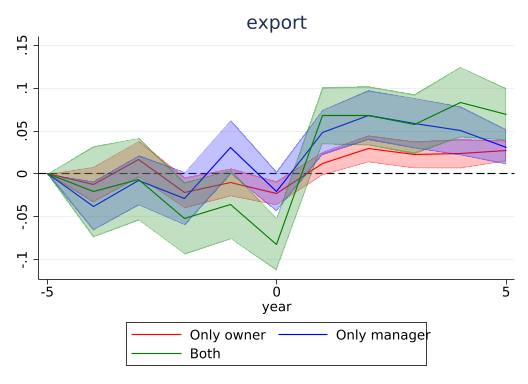
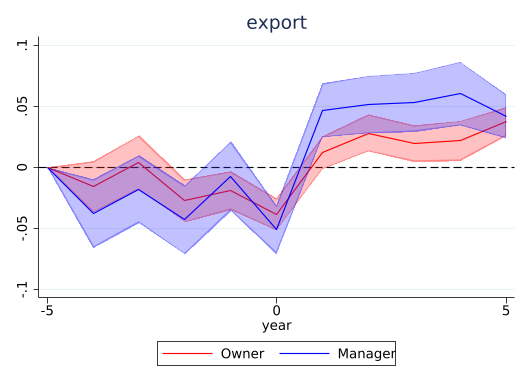
Use only 2 treatments in event study

diff --git a/output/table/event_study.tex b/output/table/event_study.tex
@@ -1,72 +1,52 @@
-\begin{tabular}{lccc} \hline
- & (1) & (2) & (3) \\
-VARIABLES & Dexport & Dimport\_capital & Dimport\_material \\ \hline
- &  &  &  \\
-only\_owner\_96 & -0.012 & -0.008 & -0.010 \\
- & (0.011) & (0.012) & (0.015) \\
-only\_owner\_97 & 0.017 & -0.009 & 0.002 \\
- & (0.011) & (0.011) & (0.012) \\
-only\_owner\_98 & -0.022** & -0.010 & -0.006 \\
- & (0.009) & (0.010) & (0.012) \\
-only\_owner\_99 & -0.010 & -0.013 & -0.018 \\
- & (0.008) & (0.009) & (0.011) \\
-only\_owner\_100 & -0.022*** & -0.021*** & -0.020** \\
- & (0.007) & (0.007) & (0.008) \\
-only\_owner\_101 & 0.012* & 0.043*** & 0.031*** \\
- & (0.007) & (0.008) & (0.009) \\
-only\_owner\_102 & 0.029*** & 0.046*** & 0.036*** \\
- & (0.008) & (0.009) & (0.009) \\
-only\_owner\_103 & 0.022*** & 0.035*** & 0.035*** \\
- & (0.008) & (0.008) & (0.010) \\
-only\_owner\_104 & 0.023*** & 0.042*** & 0.030*** \\
- & (0.009) & (0.009) & (0.010) \\
-only\_owner\_105 & 0.027*** & 0.019*** & 0.036*** \\
- & (0.006) & (0.006) & (0.008) \\
-only\_manager\_96 & -0.038*** & -0.013 & 0.007 \\
- & (0.015) & (0.018) & (0.024) \\
-only\_manager\_97 & -0.007 & -0.045** & 0.030 \\
- & (0.015) & (0.018) & (0.026) \\
-only\_manager\_98 & -0.029* & -0.028 & 0.011 \\
- & (0.016) & (0.019) & (0.022) \\
-only\_manager\_99 & 0.031* & 0.014 & 0.056** \\
- & (0.016) & (0.020) & (0.023) \\
-only\_manager\_100 & -0.021* & 0.014 & 0.032* \\
- & (0.012) & (0.015) & (0.019) \\
-only\_manager\_101 & 0.048*** & 0.090*** & 0.113*** \\
- & (0.013) & (0.015) & (0.020) \\
-only\_manager\_102 & 0.069*** & 0.080*** & 0.109*** \\
- & (0.015) & (0.017) & (0.020) \\
-only\_manager\_103 & 0.059*** & 0.041*** & 0.091*** \\
- & (0.015) & (0.014) & (0.021) \\
-only\_manager\_104 & 0.050*** & 0.061*** & 0.064*** \\
- & (0.015) & (0.017) & (0.019) \\
-only\_manager\_105 & 0.031*** & 0.035*** & 0.044*** \\
- & (0.010) & (0.011) & (0.015) \\
-both\_96 & -0.021 & -0.034 & -0.042 \\
- & (0.027) & (0.032) & (0.041) \\
-both\_97 & -0.006 & -0.052* & 0.054 \\
- & (0.025) & (0.029) & (0.044) \\
-both\_98 & -0.052** & -0.005 & -0.025 \\
- & (0.022) & (0.030) & (0.031) \\
-both\_99 & -0.036* & -0.004 & 0.045 \\
- & (0.021) & (0.028) & (0.035) \\
-both\_100 & -0.082*** & -0.038* & -0.030 \\
- & (0.016) & (0.021) & (0.027) \\
-both\_101 & 0.068*** & 0.128*** & 0.152*** \\
- & (0.017) & (0.022) & (0.028) \\
-both\_102 & 0.068*** & 0.118*** & 0.116*** \\
- & (0.018) & (0.023) & (0.028) \\
-both\_103 & 0.058*** & 0.115*** & 0.121*** \\
- & (0.018) & (0.022) & (0.028) \\
-both\_104 & 0.084*** & 0.097*** & 0.167*** \\
- & (0.021) & (0.023) & (0.034) \\
-both\_105 & 0.070*** & 0.059*** & 0.080*** \\
- & (0.015) & (0.019) & (0.025) \\
- &  &  &  \\
-Observations & 2,948,058 & 3,015,979 & 2,928,903 \\
-R-squared & 0.374 & 0.350 & 0.369 \\
-Firm-year FE & YES & YES & YES \\
-Country-year FE & YES & YES & YES \\
-Firm-country FE & YES & YES & YES \\
- Mean & 0.00728 & 0.00440 & 0.00774 \\ \hline
+\begin{tabular}{lcc} \hline
+ & (1) & (2) \\
+VARIABLES & Dexport & Dimport \\ \hline
+ &  &  \\
+owner\_96 & -0.016 & -0.030* \\
+ & (0.011) & (0.016) \\
+owner\_97 & 0.004 & 0.002 \\
+ & (0.011) & (0.016) \\
+owner\_98 & -0.027*** & -0.014 \\
+ & (0.009) & (0.014) \\
+owner\_99 & -0.019** & -0.008 \\
+ & (0.008) & (0.014) \\
+owner\_100 & -0.038*** & -0.024** \\
+ & (0.007) & (0.010) \\
+owner\_101 & 0.012* & 0.056*** \\
+ & (0.007) & (0.010) \\
+owner\_102 & 0.028*** & 0.051*** \\
+ & (0.008) & (0.011) \\
+owner\_103 & 0.019** & 0.046*** \\
+ & (0.008) & (0.012) \\
+owner\_104 & 0.022*** & 0.059*** \\
+ & (0.008) & (0.013) \\
+owner\_105 & 0.038*** & 0.042*** \\
+ & (0.006) & (0.010) \\
+manager\_96 & -0.038*** & -0.022 \\
+ & (0.014) & (0.028) \\
+manager\_97 & -0.018 & -0.034 \\
+ & (0.014) & (0.028) \\
+manager\_98 & -0.043*** & -0.011 \\
+ & (0.014) & (0.022) \\
+manager\_99 & -0.007 & 0.048* \\
+ & (0.015) & (0.028) \\
+manager\_100 & -0.051*** & 0.015 \\
+ & (0.010) & (0.020) \\
+manager\_101 & 0.047*** & 0.134*** \\
+ & (0.011) & (0.021) \\
+manager\_102 & 0.051*** & 0.135*** \\
+ & (0.012) & (0.022) \\
+manager\_103 & 0.053*** & 0.111*** \\
+ & (0.012) & (0.023) \\
+manager\_104 & 0.060*** & 0.097*** \\
+ & (0.013) & (0.023) \\
+manager\_105 & 0.042*** & 0.051*** \\
+ & (0.009) & (0.016) \\
+ &  &  \\
+Observations & 2,948,058 & 2,863,556 \\
+R-squared & 0.374 & 0.378 \\
+Firm-year FE & YES & YES \\
+Country-year FE & YES & YES \\
+Firm-country FE & YES & YES \\
+ Mean & 0.00728 & 0.0104 \\ \hline
 \end{tabular}
